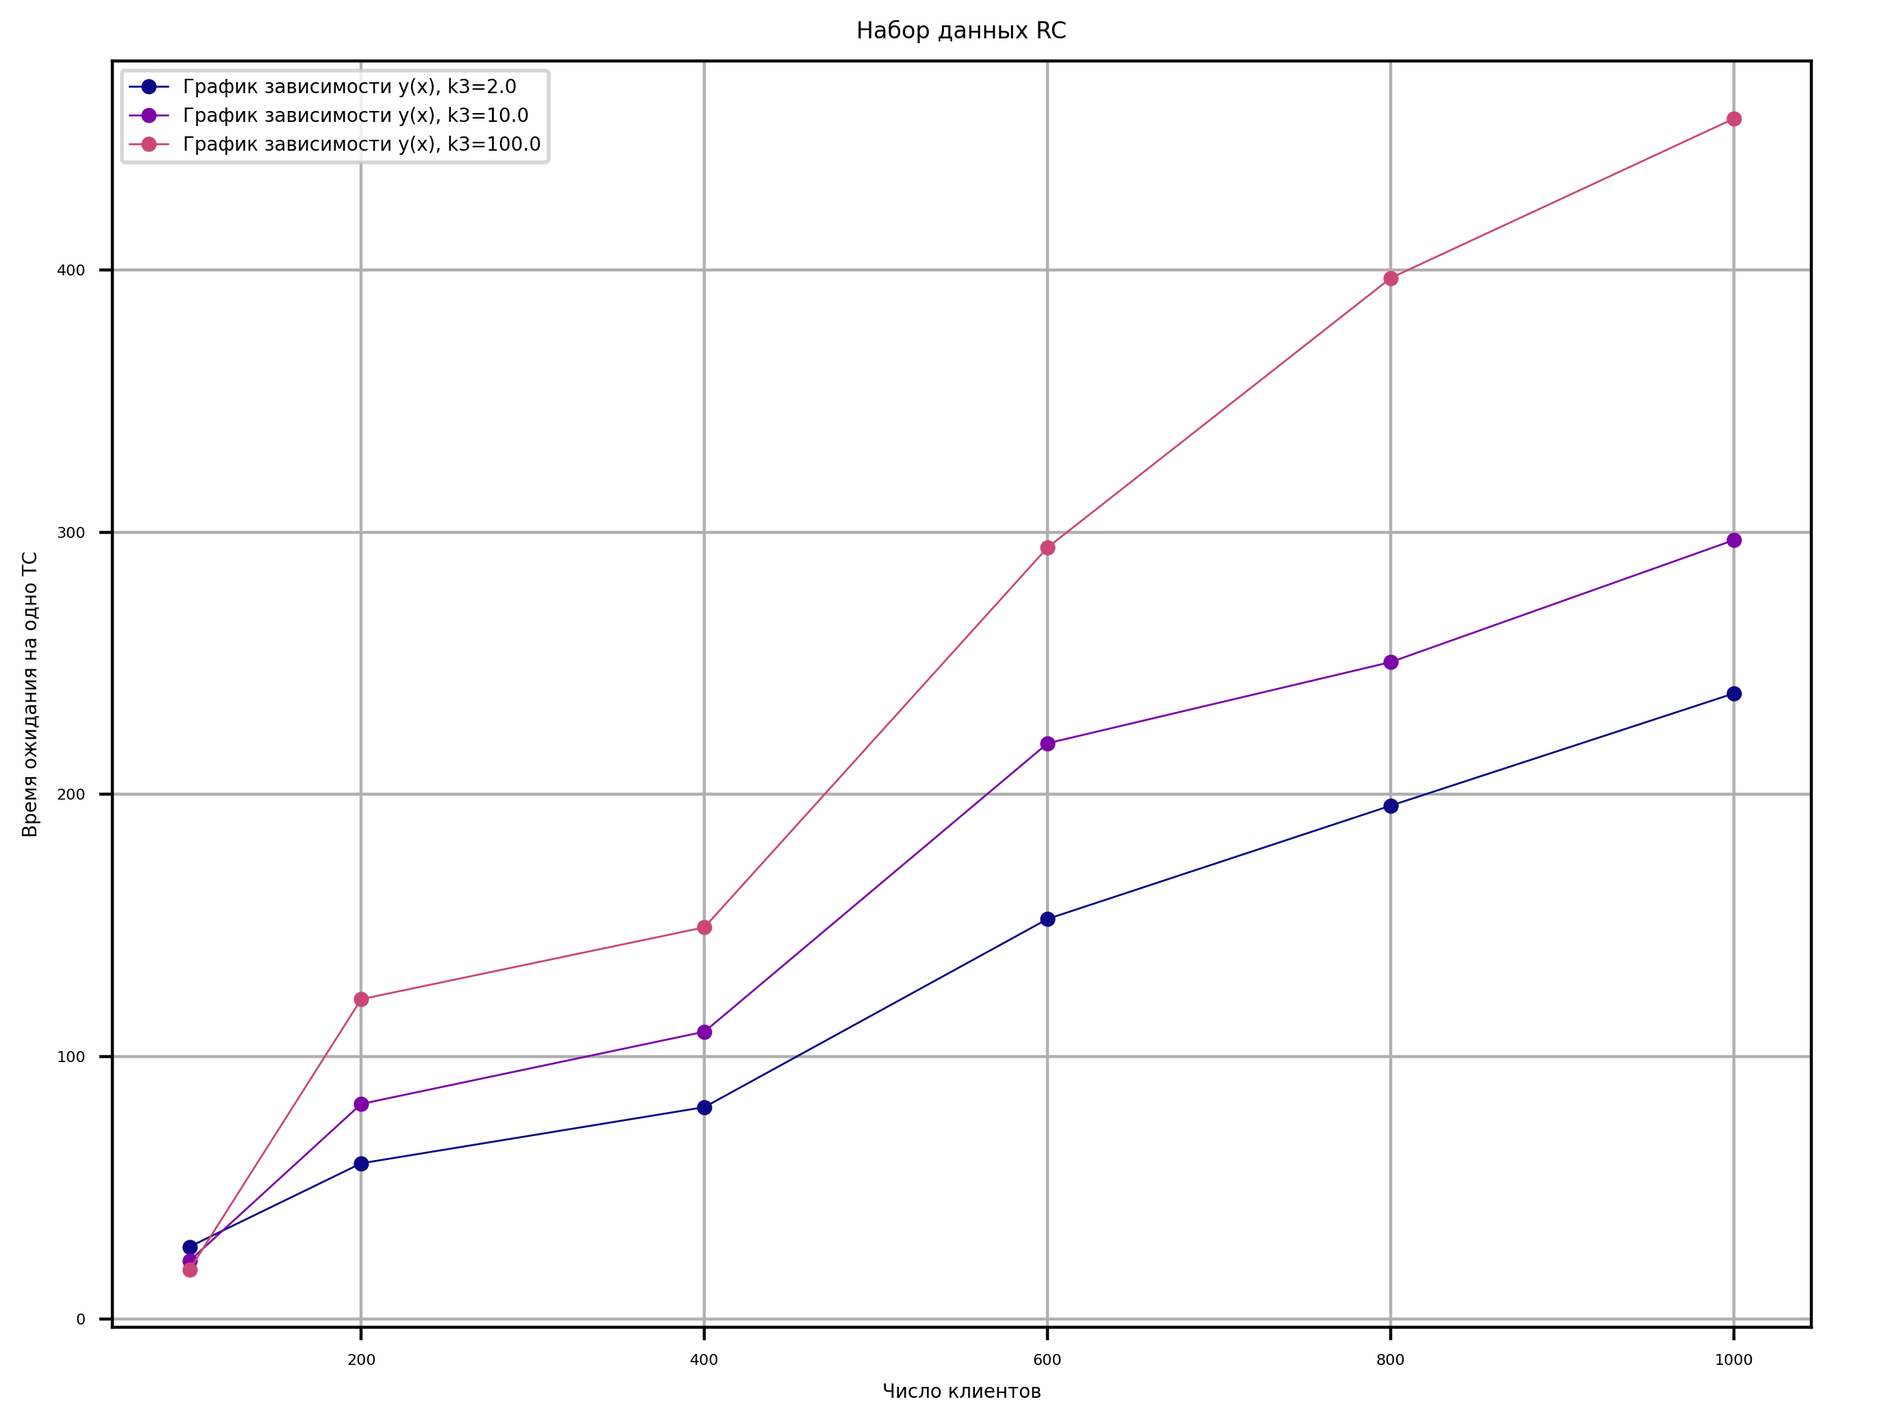
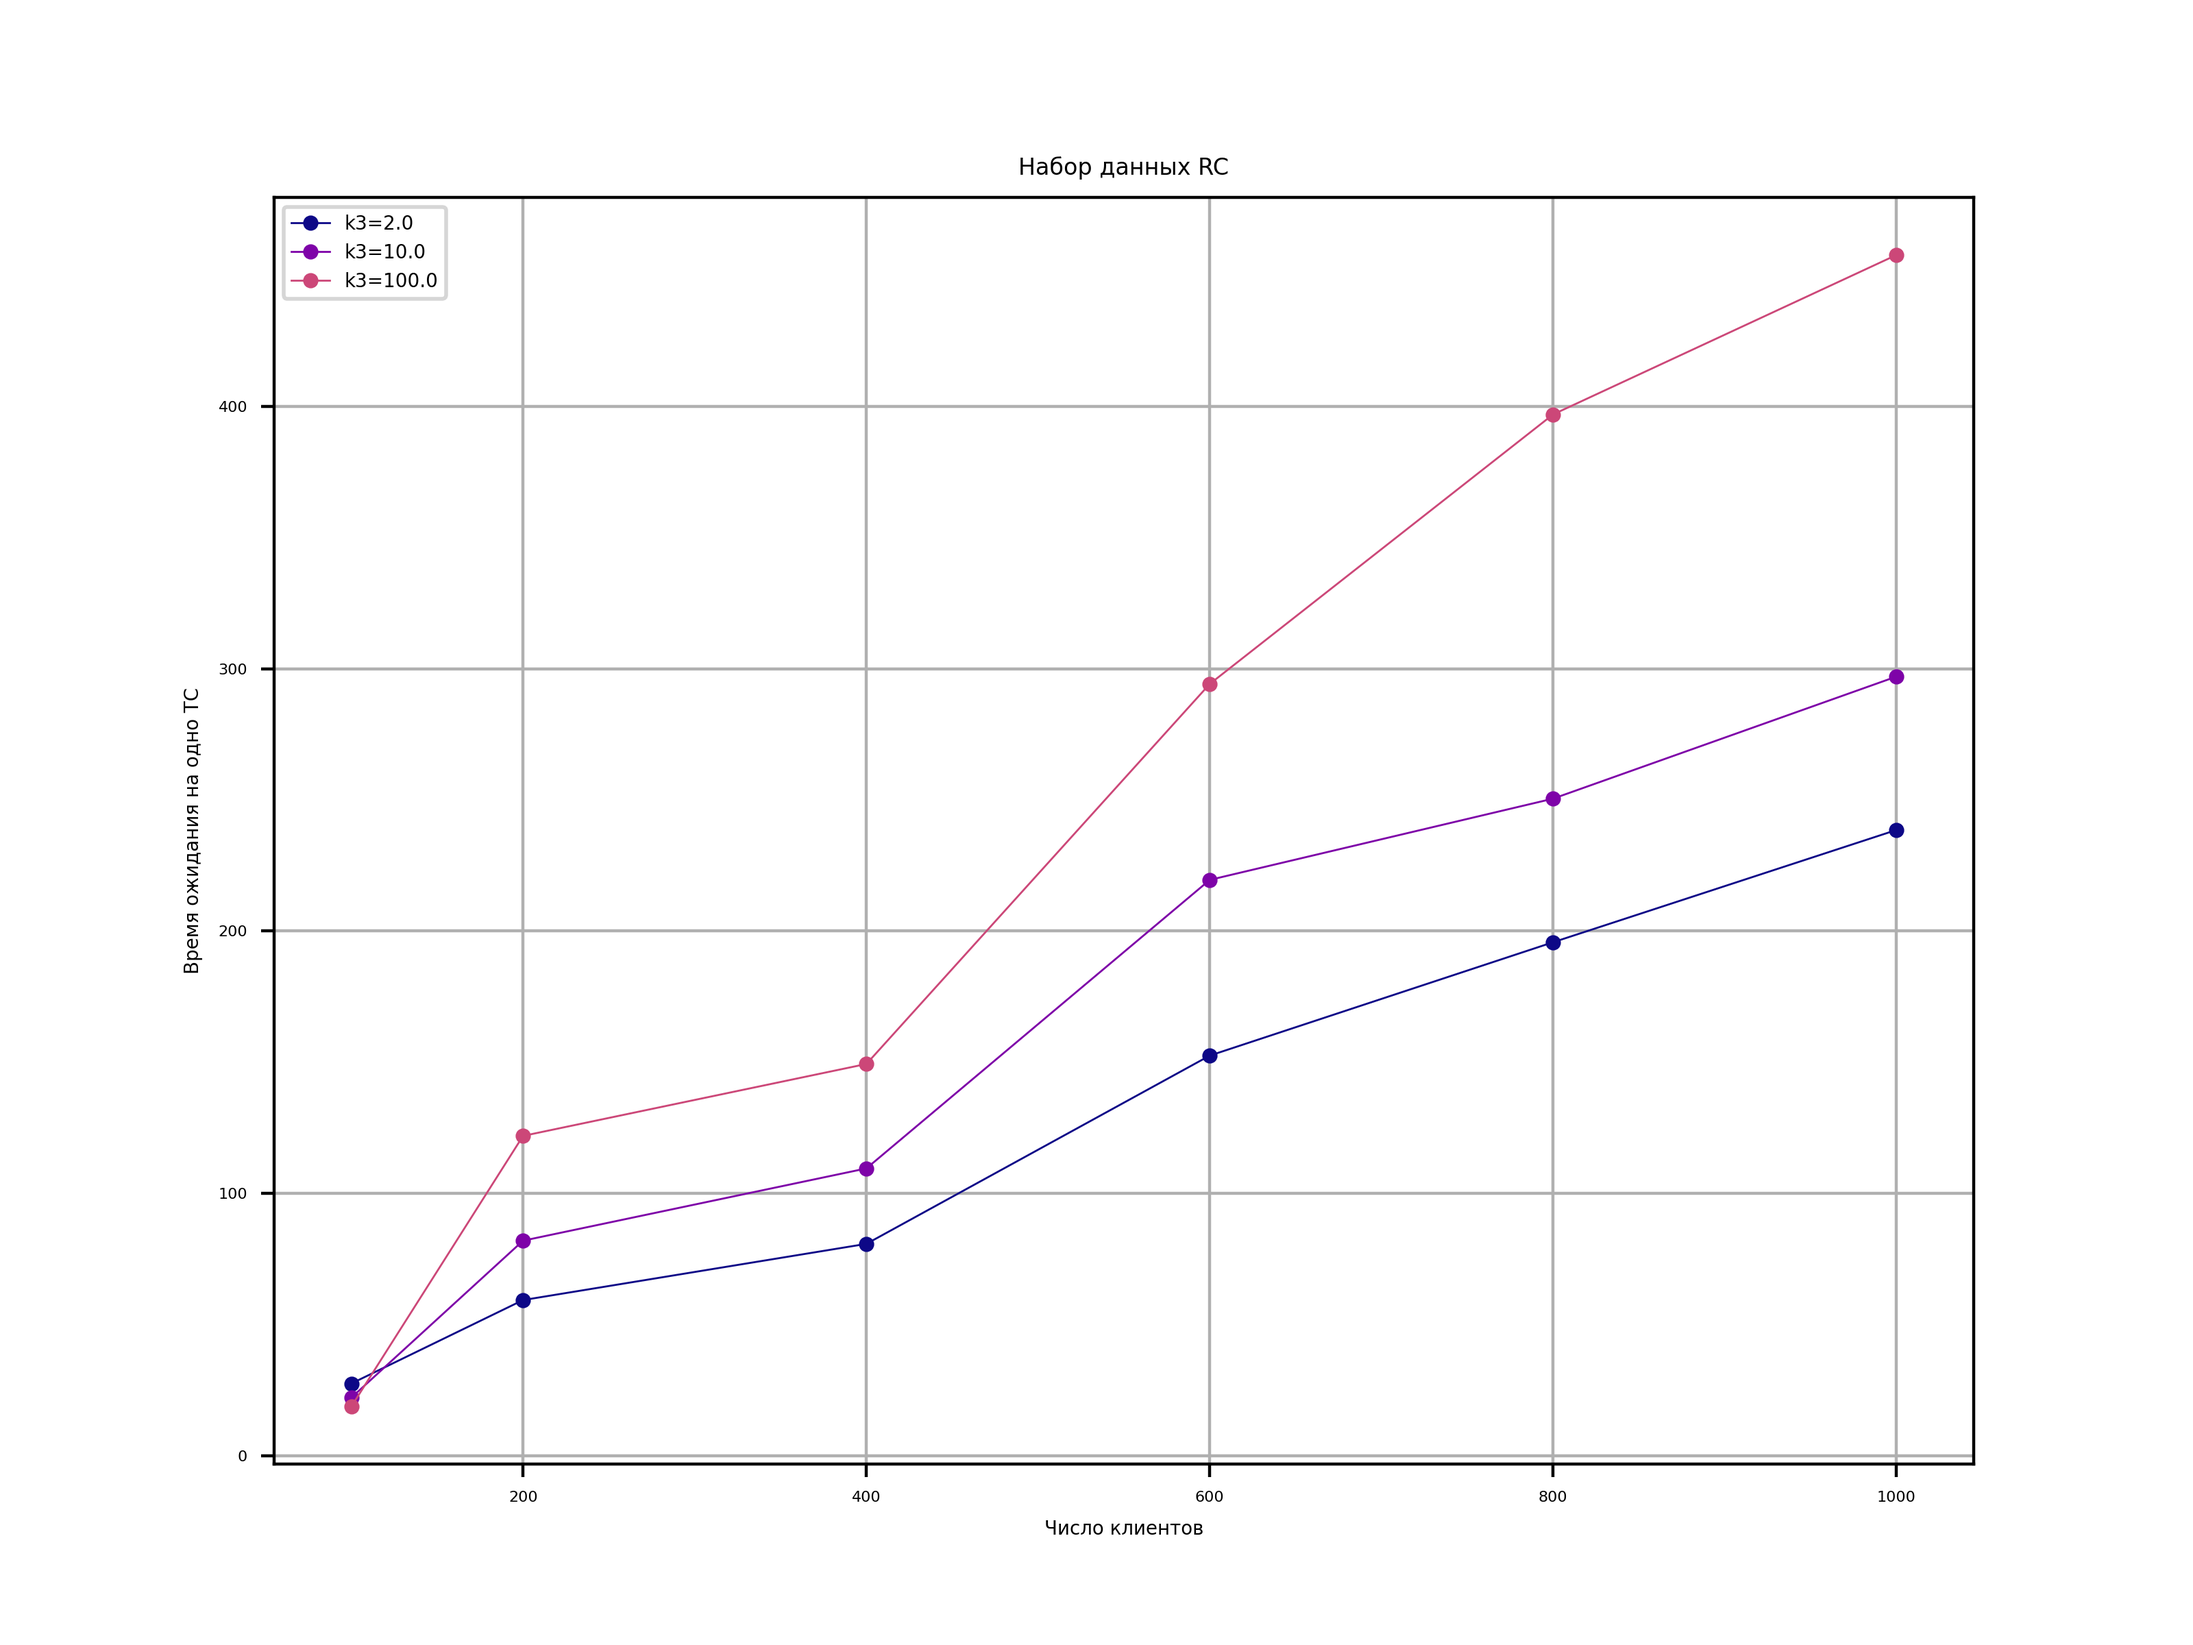
add std

diff --git a/plot.py b/plot.py
@@ -106,7 +106,7 @@ class Plot:
             for j, k3 in enumerate(k3_array):
                 self._plot_on_axes(axes, dims_array, different_k3_arr[j][i], c=cmap(j), xlabel=xlabel,
                                    ylabel=ylabel,
-                                   label='График зависимости y(x), k3={}'.format(k3),
+                                   label='k3={}'.format(k3),
                                    title='Набор данных {}'.format(mapping[i]))
 
             axes.grid(True)
@@ -116,32 +116,6 @@ class Plot:
             pathlib.Path(path).mkdir(parents=True, exist_ok=True)
             filename = ylabel.replace(',', '')
             fig.savefig(path + '/' + filename.replace(' ', '_'), dpi=self._dpi_standart)
-
-        plt.show()
-
-    def plot_data_bns(self, testing_datasets, dims_array, data_arr, xlabel='x', ylabel='y',
-                      mapping=None):
-        if mapping is None:
-            mapping = ['C', 'R', 'RC']
-
-        for i in range(len(testing_datasets)):
-            plt.rc('font', size=5)  # controls default text sizes
-            plt.rc('xtick', labelsize=4)  # fontsize of the tick labels
-            plt.rc('ytick', labelsize=4)
-            fig, axes = plt.subplots(nrows=1, ncols=1, figsize=self._figsize_standart, dpi=self._dpi_standart)
-
-            self._plot_on_axes(axes, dims_array, data_arr[i], xlabel=xlabel,
-                               ylabel=ylabel,
-                               label='График зависимости y(x)',
-                               title='Набор данных {}'.format(mapping[i]))
-
-            axes.grid(True)
-
-            # output_dir = str(mapping[i])
-            # path = self._BASE_DIR + '/result/img/' + output_dir
-            # pathlib.Path(path).mkdir(parents=True, exist_ok=True)
-            # filename = ylabel.replace(',', '')
-            # fig.savefig(path + '/' + filename.replace(' ', '_'), dpi=self._dpi_standart)
 
         plt.show()
 
@@ -175,6 +149,30 @@ class Plot:
             filename = filename.replace('(', '')
             filename = filename.replace(')', '')
             fig.savefig(path + '/' + filename.replace(' ', '_'), dpi=self._dpi_standart)
+
+        plt.show()
+
+    def plot_dataset_series_hist_with_bns(self, testing_datasets, arr, bns_arr, xlabel='x', ylabel='y',
+                                          mapping=None):
+        if mapping is None:
+            mapping = ['C', 'R', 'RC']
+
+        for i in range(len(testing_datasets)):
+            plt.rc('font', size=5)  # controls default text sizes
+            plt.rc('xtick', labelsize=4)  # fontsize of the tick labels
+            plt.rc('ytick', labelsize=4)
+
+            fig, axes = plt.subplots(nrows=1, ncols=1, figsize=self._figsize_standart, dpi=self._dpi_standart)
+
+            axes.hist([arr[i], bns_arr[i]], rwidth=0.7, bins=len(arr[i]), label=['Алгоритм', 'Наилучшее известное решение'])
+            # axes.hist(bns_arr, rwidth=0.7, bins=len(testing_datasets[i]))
+
+            axes.grid(True)
+            axes.legend(loc='best')
+
+            axes.set_xlabel(xlabel)
+            axes.set_ylabel(ylabel)
+            axes.set_title('Набор данных {}'.format(mapping[i]))
 
         plt.show()
 

diff --git a/launcher.py b/launcher.py
@@ -43,7 +43,10 @@ class Launcher:
         different_k3_arr_max_wait_time, different_k3_arr_max_late_time, different_k3_arr_wait_time_part, different_k3_arr_late_time_part = statistics.collect_additional_times()
 
         wait_arr, late_arr, dist_arr = statistics.collect_bns_data()
+
         avg_wait_arr, avg_late_arr = statistics.collect_bns_additional_data()
+
+        std_wait_time_arr, std_wait_time_arr_bns = statistics.collect_standard_deviation_with_bns()
 
         if self._plot_stats == 'time':
             different_k3_arr = statistics.collect_time_data()
@@ -121,15 +124,12 @@ class Launcher:
                                                        different_k3_arr_late_time_per_customer[0], avg_late_arr,
                                                        xlabel='Число клиентов',
                                                        ylabel='Время опоздания на одного клиента (сравнение с наилучшими решенияим)', mapping=self._mapping)
+        elif self._plot_stats == 'std_wait_time_bns':
+            self._plotter.plot_dataset_series_hist_with_bns(self._testing_datasets, std_wait_time_arr, std_wait_time_arr_bns,
+                                                       xlabel='Среднеквадратичное отклонение по времени ожидания (сравнение с наилучшими решенияим)',
+                                                       ylabel='Число датасетов', mapping=self._mapping)
         else:
             print('Unrecognized plot_stats parameter. Setting it to distance...')
             self._plotter.plot_data(self._testing_datasets, self._dims_array, self._k3_array, different_k3_arr_dist,
                                     xlabel='Число клиентов',
                                     ylabel='Пройденное расстояние, с', mapping=self._mapping)
-
-    def _make_bns_plots(self):
-        statistics = Statistics(self._testing_datasets, self._dims_array, self._k3_array)
-        wait_arr, late_arr, dist_arr = statistics.collect_bns_data()
-        # self._plotter.plot_data_bns(self._testing_datasets, self._dims_array, wait_arr)
-        self._plotter.plot_data_bns(self._testing_datasets, self._dims_array, dist_arr)
-        # self._plotter.plot_data_bns(self._testing_datasets, self._dims_array, late_arr)

diff --git a/statistics.py b/statistics.py
@@ -205,3 +205,32 @@ class Statistics:
             wait_arr_series.append(wait_arr_dataset)
             late_arr_series.append(late_arr_dataset)
         return wait_arr_series, late_arr_series
+
+    def collect_standard_deviation_with_bns(self):
+        wait_arr_series = []
+        wait_arr_series_bns = []
+        for dataset_series in self._testing_datasets:
+            wait_arr_dataset = []
+            wait_arr_dataset_bns = []
+
+            for i, dataset in enumerate(dataset_series):
+                data = pd.read_fwf(self._BASE_DIR + '/data/' + dataset['data_file'])
+                vehicle_number = int(data['VEHICLE_NUMBER'][0])
+
+                wait_arr_route = []
+                for j in range(vehicle_number):
+                    cur_report = pd.read_csv(self._BASE_DIR + '/result/tsptw_result/' + dataset[
+                        'name'] + '_output_{}/report{}.csv'.format(2, j), delimiter=' ')
+
+                    wait_df = cur_report[['Wait_Time']].values
+                    wait_arr_route.append(float(wait_df[-1]))
+
+                wait_data_bns = pd.read_fwf(
+                    self._BASE_DIR + '/bns_wait_time/' + dataset['name'] + '_mod/wait_times.txt',
+                    header=None)
+
+                wait_arr_dataset.append(np.std(wait_arr_route))
+                wait_arr_dataset_bns.append(np.std(wait_data_bns[0][1:].values))
+            wait_arr_series.append(wait_arr_dataset)
+            wait_arr_series_bns.append(wait_arr_dataset_bns)
+        return wait_arr_series, wait_arr_series_bns
